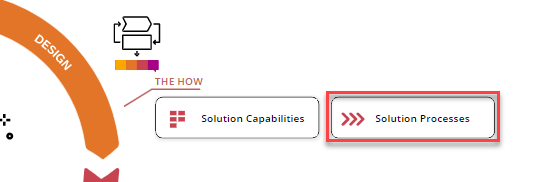
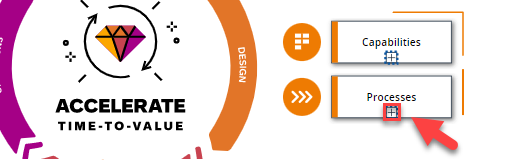
rev 0.3, update process explorer screens, add bonus exercises

diff --git a/exercises/ex1/README.md b/exercises/ex1/README.md
@@ -1,6 +1,6 @@
-# Exercise 1: Explore Best Practices Processes of SAP S/4HANA Cloud
+# Exercise 1: Explore best practices processes of SAP S/4HANA Cloud
 
-In this exercise you’ll explore standard processes of an SAP S/4HANA Cloud system. You’ll learn how to find latest product innovations related to the process, learn about typical related KPI metrics.
+In this exercise you’ll use SAP Signavio Process Explorer to examine standard processes of an SAP S/4HANA Cloud system. You’ll learn how to find latest product innovations related to the process and learn about typical related KPI metrics. 
 
 
 ## Exercise 1.1 Logon
@@ -17,39 +17,47 @@ _**Attention: throughout the exercise replace `XXX` with your personal participa
 
 ## Exercise 1.2 Navigate SAP Signavio Process Explorer
 
-1. Click on `Solution Processes` to navigate to the Solution Process House for SAP S/4HANA Cloud
+1. Click on the ➕ icon below `Processes` to navigate to the End-to-End Process House: 
 <br>![](images/0_002.png)
 
-
-2. Select `Lead to Cash`
+2. An overview of all End-to-End processes for a cross industry appears. As we are interested in the Consumer Product Industry, we click on `Consumer Industries` 
 <br>![](images/0_003.png)
 
-3. In the sidebar select `Lead to Cash (Consumer Products)`
+3. In the sidebar (Attribute field), click on `E2E Processes for Consumer Products`
 <br>![](images/0_004.png)
 
-5. To navigate to the Sell from Stock we drill down deeper on the `Order to Fulfill (Standard B2B)` process by clicking on the plus sign
+4. E2E Process House for Consumer Products is open, and you can explore the content per each end-to-end process. We would like to drill down further into the Lead-to-Cash process. Therefore, we are clicking on the `Lead-to-Cash` button
+<br>![](images/0_011.png)
+
+5. And follow the navigation by clicking `Lead to Cash (Consumer Products - Cloud)` within the sidebar
+<br>![](images/0_012.png)
+
+6. With another click on the Lead-to-Cash diagram we will land on the overview page of the process: 
+<br>![](images/0_013.png)
+
+7. To navigate to the Sell from Stock process, we drill down deeper on the `Order to Fulfill (Standard B2B)` process by clicking on the ➕ sign
 <br>![](images/0_006.png)
 
-5. To see now the BPMN(Business Process Modelling Notation)) best practice process for Sell from Stock in SAP S/4HANA Cloud, click on the plus sign of `Manage Customer Orders`
+8. To see now the BPMN (Business Process Modelling Notation)) best practice process for Sell from Stock in SAP S/4HANA Cloud, click on the ➕ sign of `Manage Customer Orders`
 <br>![](images/0_007.png)
 
-6. You'll find an overview of the best practice process `5HL - Sell from Stock - Consumer Products` in BPMN diagram, all involved business roles and tasks to fulfill this activity, and links to subsequent processes (e.g. J59 Account Receivable)
+9. You'll find an overview of the best practice process `5HL - Sell from Stock - Consumer Products` in BPMN diagram, all involved business roles and tasks to fulfill this activity, and links to subsequent processes (e.g. J59 Account Receivable)
 <br>![](images/0_008.png)
 
-7. To evaluate the metrics for Sell from Stock, activate the `Overlay` functionality and chose `metrics`.
+10. To evaluate the metrics for Sell from Stock, activate the `Overlay` functionality and chose `metrics`.
 <br>![](images/0_009.png)
 
-8. Click one of the orange elements to peek into relevant metrics. 
+11. Click one of the orange elements to peek into relevant metrics. 
 <br>![](images/0_010.png)
 
-9. Check out other overlays to find out more about new Fiori apps and Intelligent scenarios.
+12. Check out other overlays to find out more about new Fiori apps and Intelligent scenarios.
 
 
 ## Summary
 
 You now learned how to find solution best practices processes of SAP S/4HANA Cloud, get an overview of innovations and new Fiori apps. In the next exercise you'll analyze how the process **actually** runs in your SAP S/4HANA Cloud system.
 
-*Note: The content in the Teched exercise tenants was reduced to a subset and  shows a preview version. Today you can already find similar content in the [SAP Best Practices Explorer](https://rapid.sap.com)*
+*Note: The content in this Teched exercise tenants was reduced to a subset and  shows a preview version only. Today you can already find more in the [SAP Best Practices Explorer](https://rapid.sap.com)*
 
 Continue to - **[Exercise 2 - Analyze and investigate process mining results](../ex2/README.md)**
 

diff --git a/exercises/ex4/README.md b/exercises/ex4/README.md
@@ -1,10 +1,10 @@
 # Exercise 4: Investigate and improve your process
 
-In this exercise we'll learn how we can use SAP Signavio Process Intelligence drill into process details. We will mark spots for improvement with the built in Insights to collaboratively track process improvements. Then we will check how to use the Process Explorer again to find potential innovations helping implement process improvements.
+In this exercise we'll learn how we can use SAP Signavio Process Intelligence drill into process details. We will mark spots for improvement with the built in **Insights** marker to collaboratively work and track process improvements. Last but not least we will check how to use the Process Explorer again to find available innovations that could resolve some of the process issues found.
 
 
 ## Exercise 4.1 Add a new behaviour based-investigation
-We suspect that there is some rework happening due to the fact that a Sales Order was not created properly in first place. So we will try to further dissect the data set. 
+For this exercise we suspect that there is some rework happening due to the fact that a Sales Order was not created properly in first place. So we will try to further dissect the data set to validate our hypothesis. 
 
 1. To test our hypothesis we'll create a `New Chapter`
 <br>![](images/4_001.png)
@@ -58,4 +58,11 @@ You can now contact the colleagues in *Columbia* and check if they would benefit
 You made it! 🥳 You've now learned to deep dive into process analytics. Learned how the SAP Signavio Process Explorer offers a comprehensive overview on next generation practices, where processes can be enhanced using Machine Learning, Automation, or simply by leveraging modern Fiori Apps!
 
 
-Now head over to - **DT262 to learn more on how to automate SAP S/4HANA with SAP Build Process Automation!**
+Now head over to - **[DT262 to learn more on how to automate SAP S/4HANA with SAP Build Process Automation!](../../../teched2022-DT262)**
+
+
+## Still time left?
+Check out some of the **[Bonus Exercises 🛠](../bonus/README.md)**
+
+
+Back to the [Overview](../../README.md)

diff --git a/README.md b/README.md
@@ -1,15 +1,18 @@
 # DT260 - Evolve Processes Moving to SAP S/4HANA Cloud with SAP Signavio Solutions
 
-## Description
+<br>![](exercises/banner.png)
 
-Take a deep dive into the internal processes supported by SAP S/4HANA using SAP Signavio Process Transformation Suite. Start at the surface level by leveraging the new SAP Signavio Process Explorer solution. Learn about innovations and next-generation process improvements. Then get your hands dirty with process mining to optimize your intelligent ERP system, derive insights, measure KPIs, and learn where you deviate from best practices.
+Take a deep dive into the internal processes supported by SAP S/4HANA using SAP Signavio Process Transformation Suite. Start at the surface level by leveraging the new SAP Signavio Process Explorer solution. Learn about innovations and next-generation process improvements. Then get your hands dirty with process mining to optimize your intelligent ERP system, derive insights, measure KPIs, and learn where you deviate from best practices. 
+
+
 
 ## Exercises
 
-- [Exercise 1 - Explore Best Practices Processes of SAP S/4HANA Cloud](exercises/ex1/)
+- [Exercise 1 - Explore best practices processes of SAP S/4HANA Cloud](exercises/ex1/)
 - [Exercise 2 - Analyze and investigate process mining results](exercises/ex2/)
 - [Exercise 3 - Adapt the process data model](exercises/ex3/)
-- [Exercise 4 - Investigate and improve your process](exercises/ex2/)
+- [Exercise 4 - Investigate and improve your process](exercises/ex4/)
+- [Bonus Exercises - Optional](exercises/bonus/)
 
 
 ## How to obtain support

diff --git a/exercises/bonus/README.md b/exercises/bonus/README.md
@@ -1,0 +1,25 @@
+# Bonus Exercises
+
+This chapter contains a couple of threads to further explore SAP Signavio &amp; SAP S/4HANA Cloud
+
+
+## Exercise 5.1 Jump into the S/4HANA system
+You can access the connected S/4HANA system here: https://my401669.s4hana.cloud.sap/ui
+E.g. open app `Track Sales Orders` to compare a specific Sales Order 
+<br>![](images/b_002.png)
+...with one analyzed in Signavio Process Intelligence
+<br>![](images/b_001.png)
+
+
+## Exercise 5.2 Dashboards
+In Signavio Process Intelligence, you'll find `Dashboards` (next to Investigations). Start creating your own dashboards! 
+<br>![](images/b_003.png)
+
+
+## Exercise 5.3 Accelerators
+In this exercise we started based on a simplified data model. SAP Signavio Process Intelligence comes with various pre-built Accelerator templates. Check them out **[here](https://documentation.signavio.com/suite/en-us/Content/process-intelligence/accelerators-intro.htm)**
+
+
+
+
+Back to the [Overview](../../README.md)

diff --git a/exercises/ex2/README.md b/exercises/ex2/README.md
@@ -31,7 +31,7 @@ The BPMN model of our best practices process (Sell from Stock - 5HL) was linked 
 2. Select `Value`
 <br>![](images/2_005.png)
 
-3. Select type Metric and select `Lead time: sales document item creation to delivery creation` (you might remember that metric from Exercise 1). Click `Save` to confirm.
+3. Select type `Metric` and select `Lead time: sales document item creation to delivery creation` (you might remember that metric from Exercise 1). Click `Save` to confirm.
 <br>![](images/2_006.png)
 <br>The new metric is added to the investigation.
 

diff --git a/exercises/ex3/README.md b/exercises/ex3/README.md
@@ -42,7 +42,7 @@ WHERE
    e.BusinessEventType = 'OvrlDlvBlkStsChgd' AND
    p.BusEvtLogNewFieldValue IN ('C') -- C=blocked
 ```
-The SQL-based transformation add the new event to our process instances (*Cases*; each case equals to a single Sales Order).
+The SQL-based transformation will add the new event to our process log (*Cases*; each case equals to a single Sales Order).
 
 4. Click the `preview` button to check if the extractor returns entries
 <br>![](images/3_011.png)
